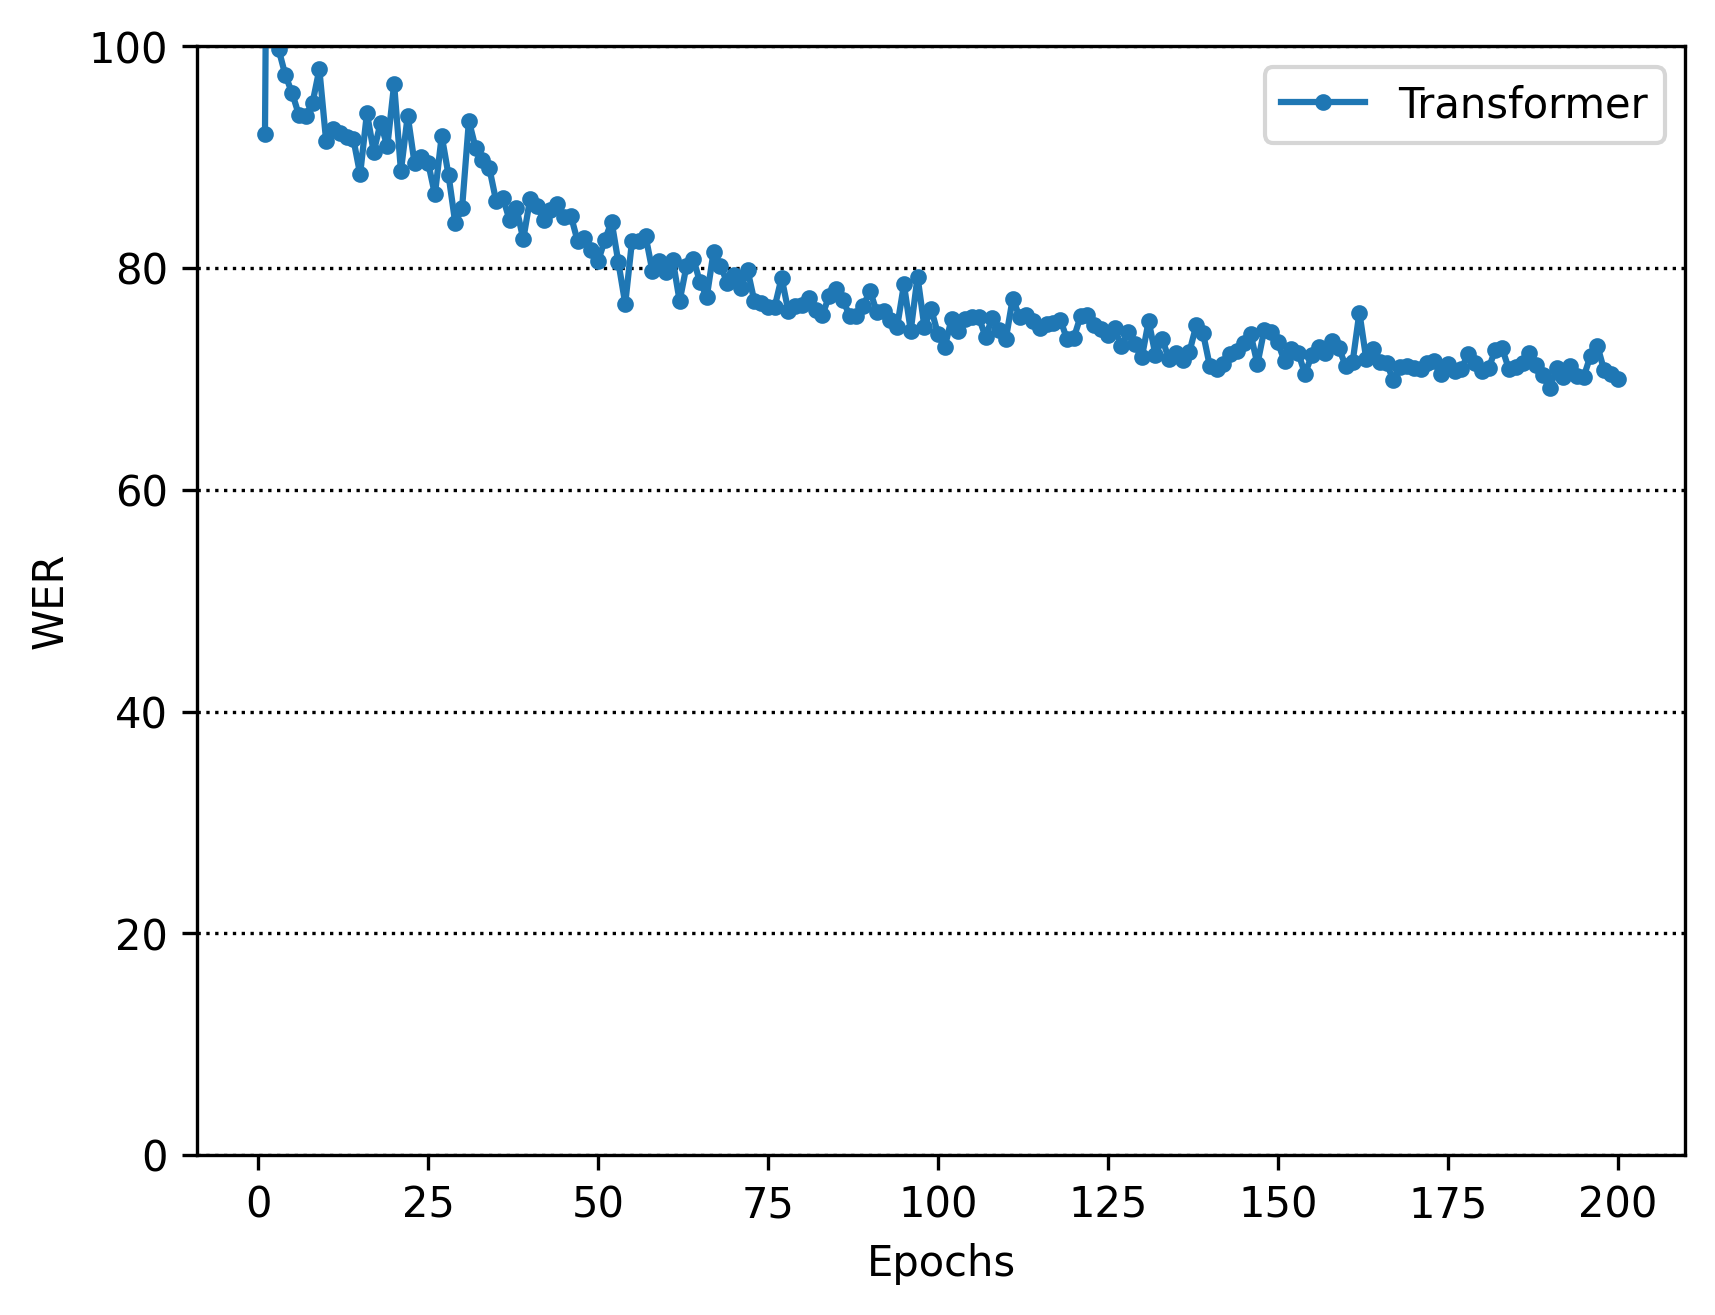
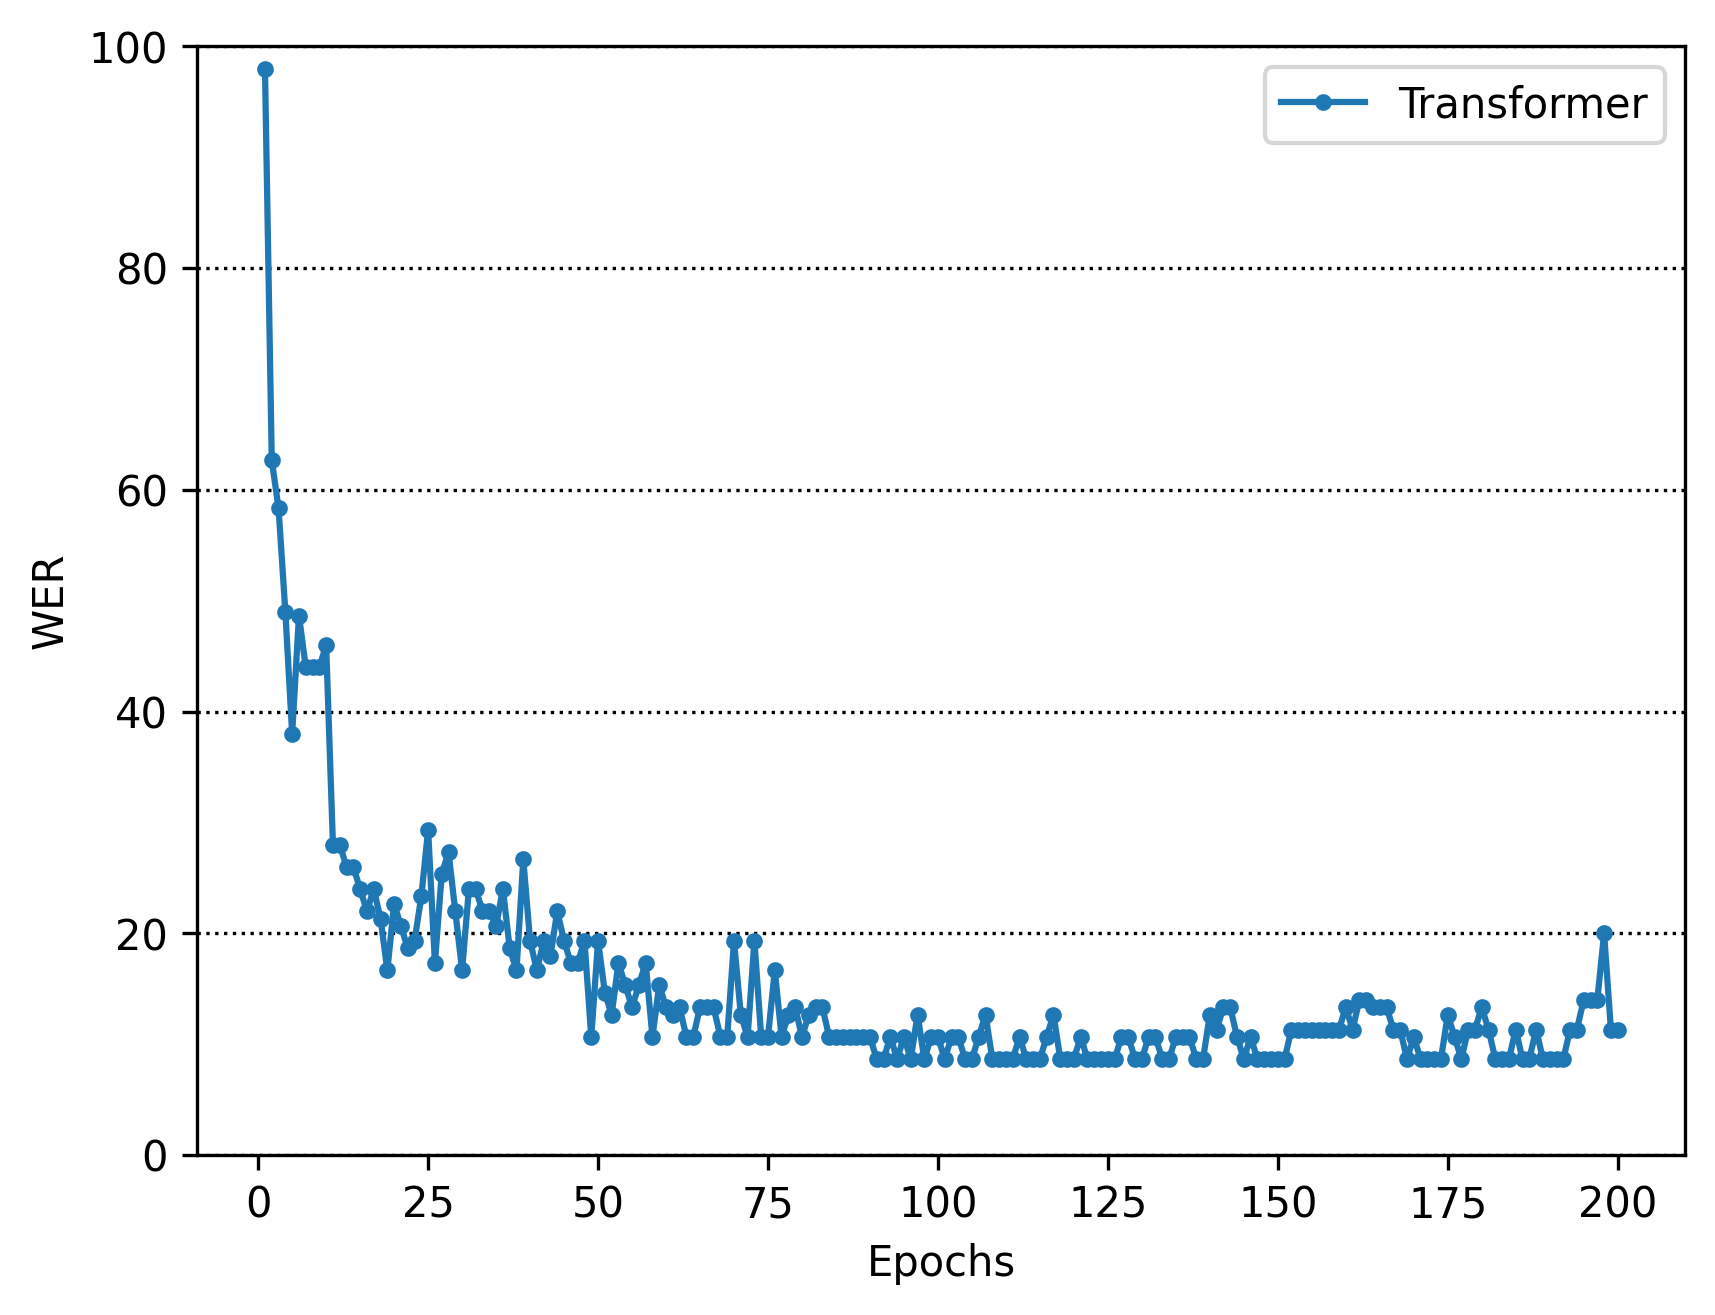
update: 2024年の卒論時に使用したDBを使用できるようにした

Changed region(s): [[0.1545, 0.0312, 0.958, 0.8106]]

diff --git a/csv_to_hdf5/src/readhdf5.py b/csv_to_hdf5/src/readhdf5.py
@@ -4,10 +4,14 @@ sample_path = "../../data/dataset_top10/2044.hdf5"
 with h5py.File(create_path, "r") as fread:
     keys = fread.keys()
     print("Groups:", keys)
+    print(len(keys))
+    count = 0
     for key in keys:
         data = fread[key]
         print("Data in a group:", data.keys())
         feature = data["feature"][:]
         token = data["token"][:]
         print(feature.shape)
-        print(token)
+        count += len(token)
+        print(len(token))
+    print(count / len(keys))

diff --git a/ContinuousSignLanguage/transformer/continuous_sign_language_transformer/modeling/config.py b/ContinuousSignLanguage/transformer/continuous_sign_language_transformer/modeling/config.py
@@ -27,9 +27,9 @@ trde_add_tailnorm=True
 #学習パラメータ
 label_smoothing = 0.1
 lr = 3e-4
-epochs = 50
+epochs = 200
 eval_every_n_epochs = 1
-max_seqlen = 60
+max_seqlen = 200
 
 #モデルの保存
 model_save_dir = "transformer/models"

diff --git a/ContinuousSignLanguage/transformer/continuous_sign_language_transformer/config.py b/ContinuousSignLanguage/transformer/continuous_sign_language_transformer/config.py
@@ -1,7 +1,7 @@
 import numpy as np
 
 # dataset
-read_dataset_dir = "../hdf5/gafs_dataset_very_small/"
+read_dataset_dir = "../hdf5/minimum_continuous_hand_language/"
 test_number = "0"
 val_number = "1"
 
